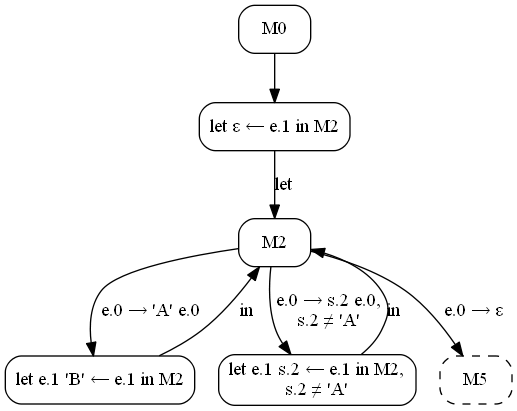
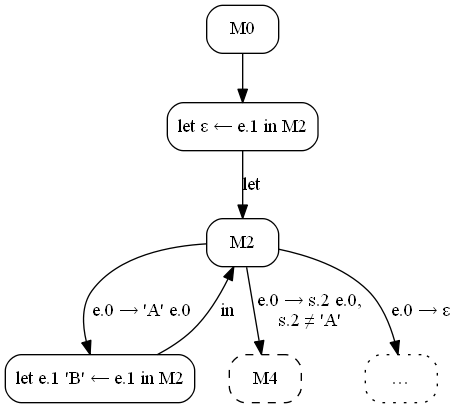
Перекомпилирована картинка и уточнено эссе

diff --git a/essay.md b/essay.md
@@ -614,6 +614,9 @@ in the Tucson metro region._
     }
 
 Опять имеем подстановку, переводящую `M2` в `M4`. Заворачиваем цикл:
+
+![pics/2070-fab2.dot](pics/2070-fab2.png)
+
 Наконец, метаконфигурация `M5` будет иметь вид:
 
     /* Метаконфигурация M5 */
